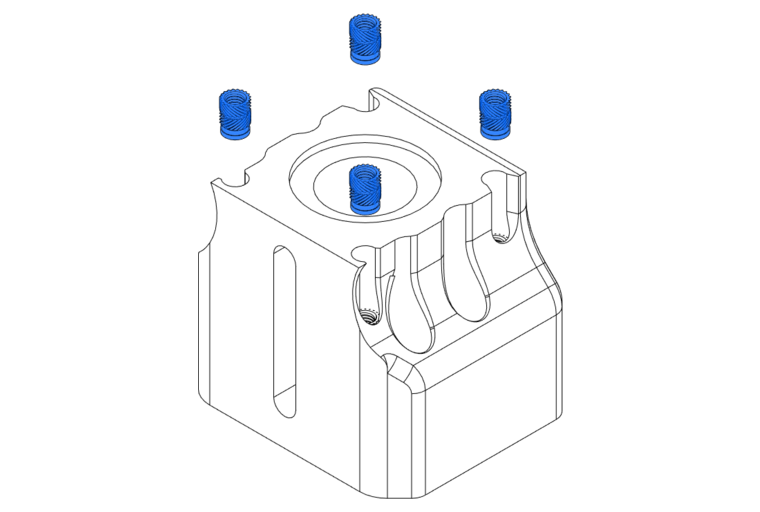
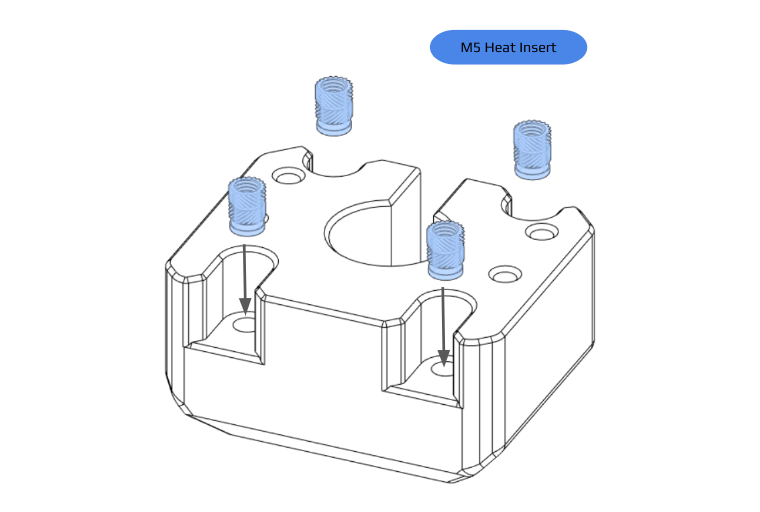
Update Y motor mount image
Also update assembly instructions.

diff --git a/docs/assembly_manual/chapters/y_axis_assembly.md b/docs/assembly_manual/chapters/y_axis_assembly.md
@@ -155,9 +155,7 @@ Insert the M5 heat-set inserts into the Y-Axis Motor Mount.
 ![insert the M5 heat-set inserts in the Y-Axis Motor Mount](../img/y_axis_assembly/y_axis_step_12.png){: .shadow}
 
 !!! tip
-    The motor mount has been redesigned so yours will be shorter than the one in this image. On the shorter mount, the heat-set inserts can be installed from the flat side of the mount (the side that printed against the bed).
-
-    These inserts are much more resistant to being pulled out of the mount than the ones in the older style motor mount, especially when over-torquing the motor bolts.
+    This redesigned motor mount is shorter than the original design, and allows the heat-set inserts to be installed from the side opposite the motor. This makes the inserts much more resistant to being pulled out of the mount than the ones in the older style mount, especially when over-torquing the motor bolts.
 
 ---
 
